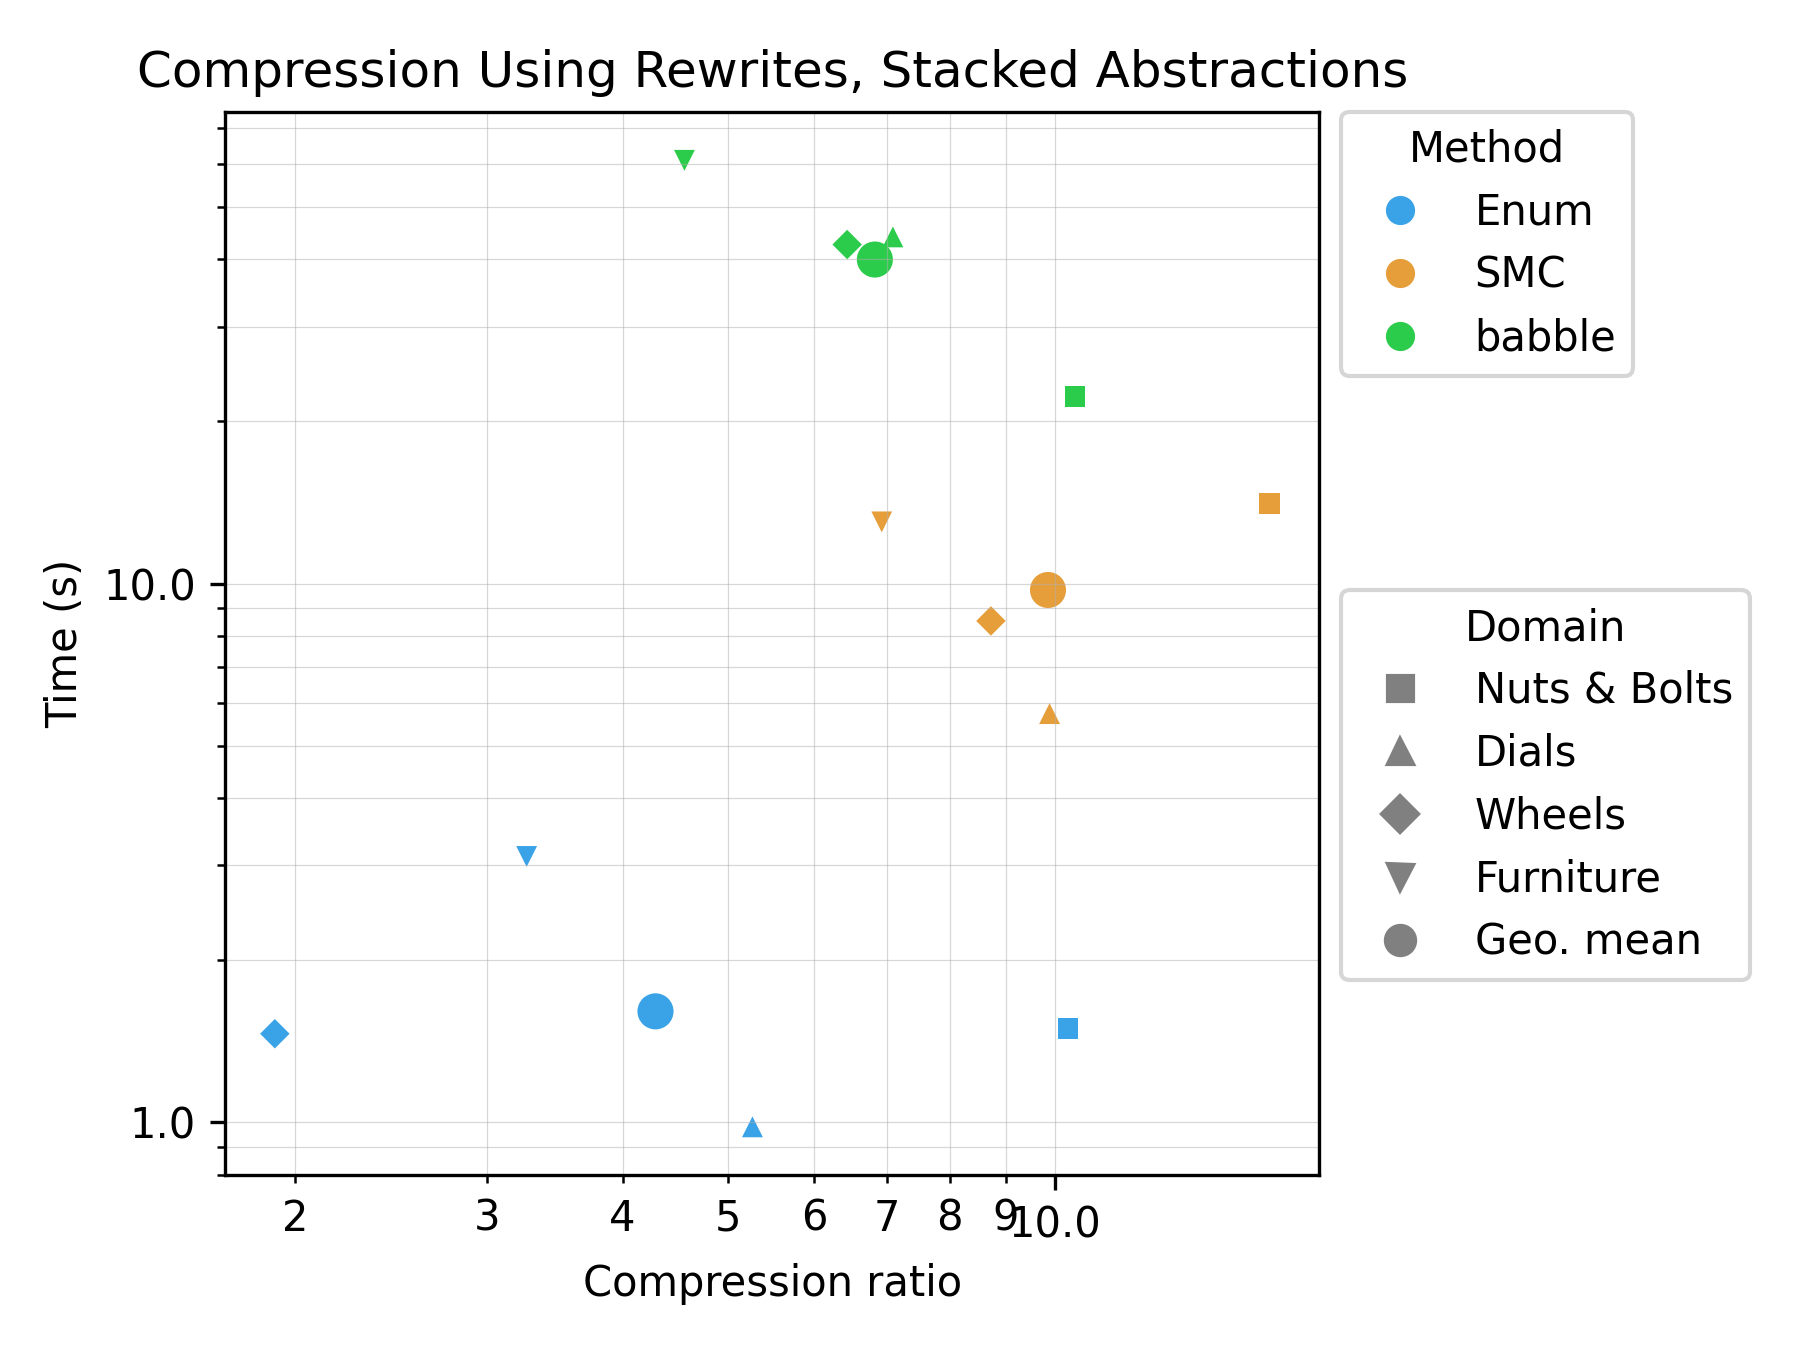
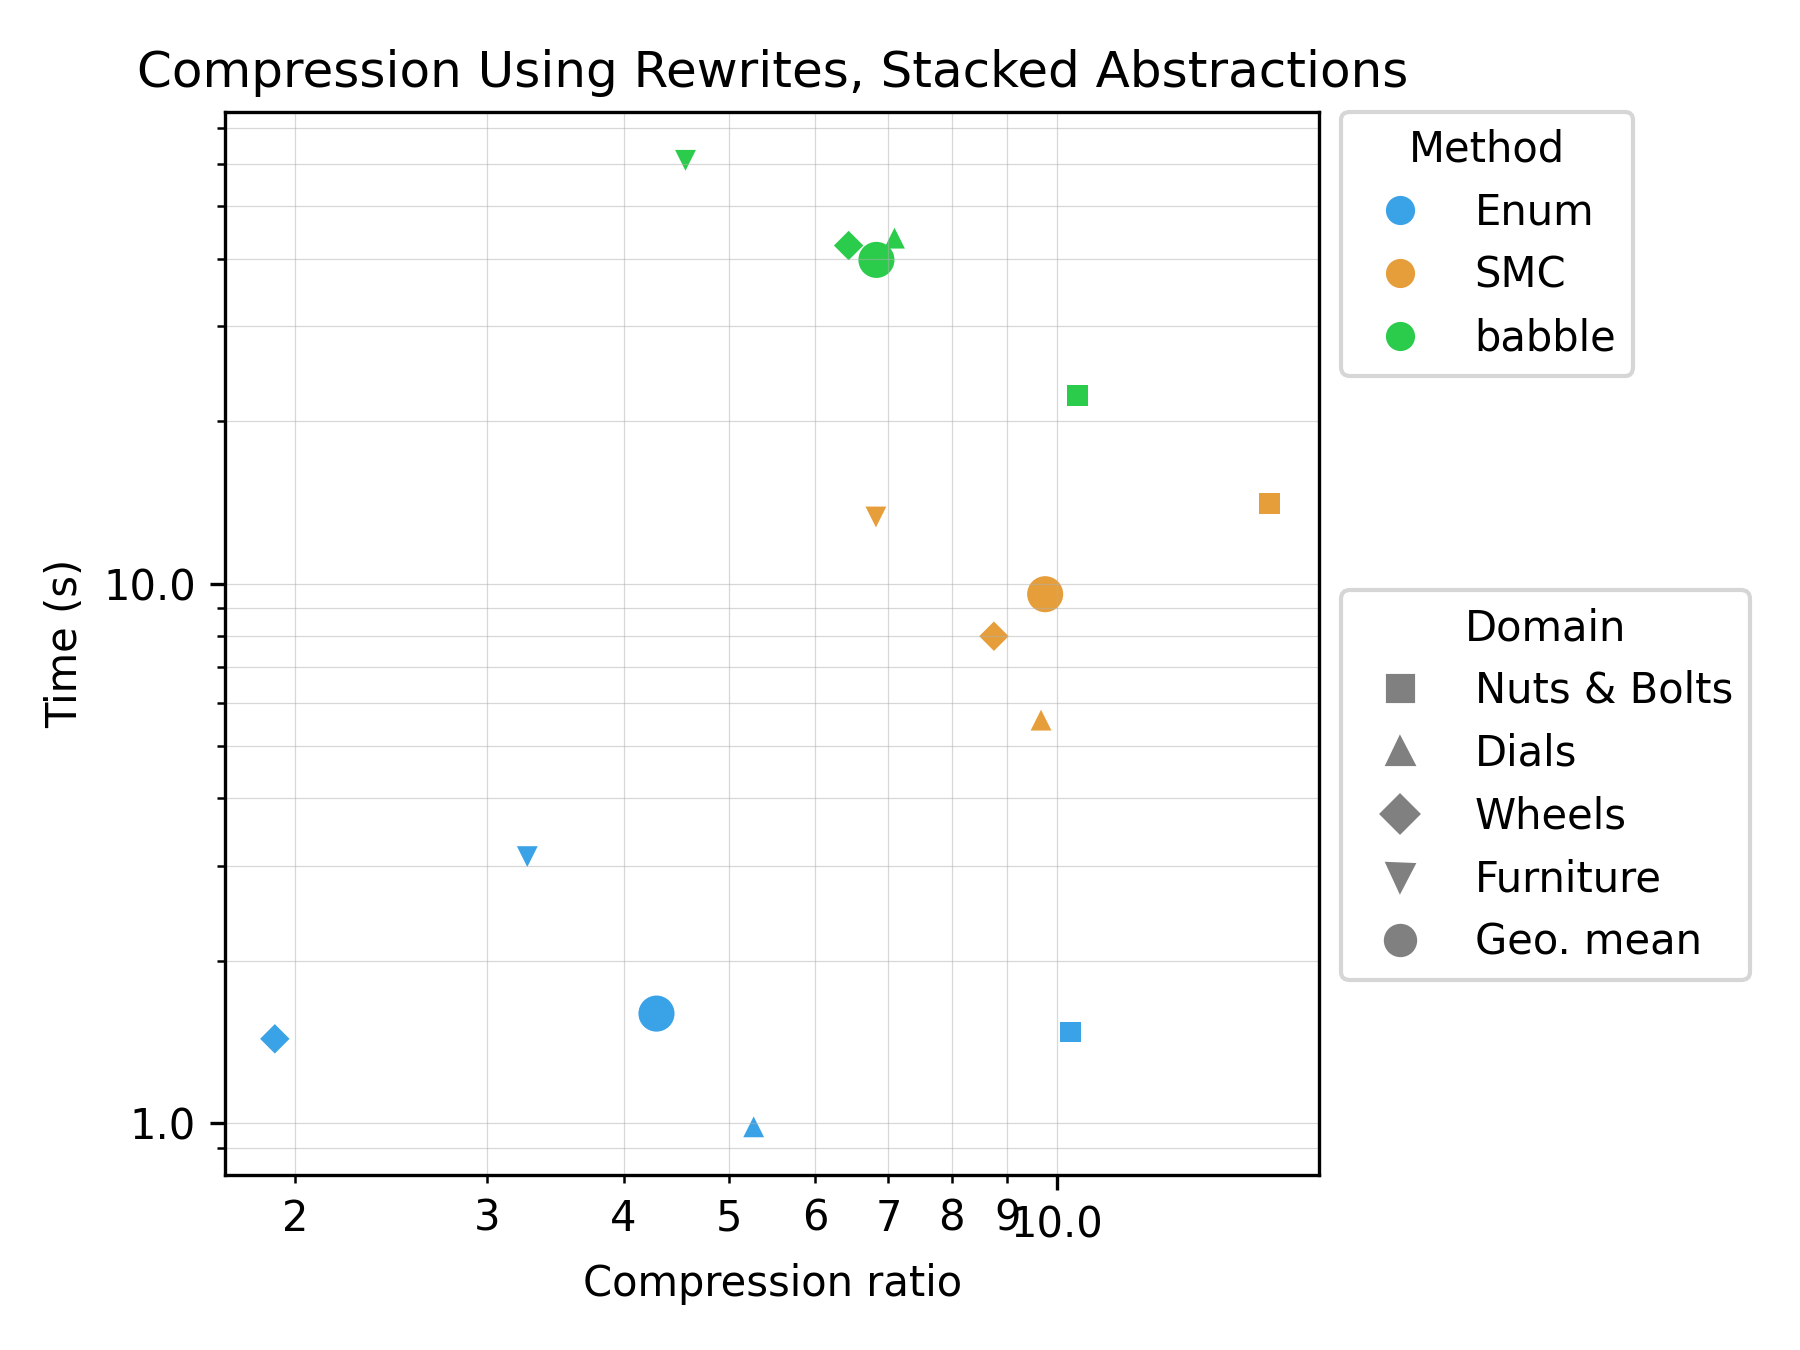
use the correct branches for stitch/babble (#86)

diff --git a/expts/__init__.py b/expts/__init__.py
@@ -29,6 +29,47 @@ def _cargo_build(project_dir: Path, bin_name: str) -> Path:
     return project_dir / "target" / "release" / bin_name
 
 
+def _git(repo_dir: Path, *args: str) -> str:
+    """Run ``git`` in ``repo_dir`` and return stripped stdout."""
+    return subprocess.run(
+        ["git", *args],
+        check=True, cwd=repo_dir, capture_output=True, text=True,
+    ).stdout.strip()
+
+
+def _check_clean_main(repo_dir: Path, expected_origin: str) -> None:
+    """Assert ``repo_dir`` is on main, clean, and synced with ``expected_origin``.
+
+    Raises ``RuntimeError`` if ``origin``'s URL doesn't match
+    ``expected_origin``, the working tree isn't on the ``main`` branch, has
+    uncommitted/untracked changes, or has diverged from ``origin/main``
+    after a fetch.
+    """
+    origin_url = _git(repo_dir, "remote", "get-url", "origin")
+    if origin_url != expected_origin:
+        raise RuntimeError(
+            f"{repo_dir}: expected origin '{expected_origin}', got '{origin_url}'"
+        )
+    branch = _git(repo_dir, "rev-parse", "--abbrev-ref", "HEAD")
+    if branch != "main":
+        raise RuntimeError(f"{repo_dir}: expected branch 'main', got '{branch}'")
+    dirty = _git(repo_dir, "status", "--porcelain")
+    if dirty:
+        raise RuntimeError(f"{repo_dir}: working tree has uncommitted changes:\n{dirty}")
+    _git(repo_dir, "fetch", "origin", "main")
+    local = _git(repo_dir, "rev-parse", "main")
+    remote = _git(repo_dir, "rev-parse", "origin/main")
+    if local != remote:
+        raise RuntimeError(
+            f"{repo_dir}: local main ({local[:8]}) is not in sync with origin/main ({remote[:8]})"
+        )
+
+
+# Verify the external compressors are on a clean, up-to-date main before we
+# build and run them so reported numbers are reproducible from a known commit.
+_check_clean_main(BABBLE_DIR, "git@github.com:kavigupta/babble.git")
+_check_clean_main(STITCH_DIR, "git@github.com:mlb2251/stitch.git")
+
 # Build all three binaries once at import time and expose their paths as
 # top-level constants. Cargo's incremental build makes the no-op case cheap.
 EGG_STITCH_BIN: Path = _cargo_build(EGG_STITCH_DIR, "egg-stitch")

diff --git a/figures/table3.tex b/figures/table3.tex
@@ -1,4 +1,4 @@
-% source: /home/kavi/mit/egg-stitch/viz/results/table3/2026-05-05_11-03-00/table3.json
+% source: /home/kavi/mit/egg-stitch/viz/results/table3/2026-05-05_18-55-23/table3.json
 % Compression Using Rewrites, Stacked Abstractions: generated from results JSON
 \begin{tabular}{l r r rrrr rrrr}
 \toprule
@@ -6,11 +6,11 @@
 \cmidrule(lr){2-3} \cmidrule(lr){4-7} \cmidrule(lr){8-11}
 Domain & Original & E-graph min & Enum & SMC & babble & Stitch & Enum & SMC & babble & Stitch \\
 \midrule
-Nuts \& Bolts & 19009 & 19296 & 10.28 & \textbf{15.75} & 10.43 & N/A & \textbf{1.495} & 14.082 & 22.263 & N/A \\
-Dials & 35713 & 20846 & 5.27 & \textbf{9.88} & 7.09 & N/A & \textbf{0.982} & 5.739 & 44.000 & N/A \\
-Wheels & 35427 & 30308 & 1.91 & \textbf{8.73} & 6.44 & N/A & \textbf{1.461} & 8.527 & 42.592 & N/A \\
-Furniture & 42936 & 37268 & 3.26 & \textbf{6.92} & 4.56 & N/A & \textbf{3.117} & 13.021 & 61.037 & N/A \\
+Nuts \& Bolts & 19009 & 19296 & 10.28 & \textbf{15.66} & 10.43 & N/A & \textbf{1.475} & 14.074 & 22.305 & N/A \\
+Dials & 35713 & 20846 & 5.27 & \textbf{9.66} & 7.09 & N/A & \textbf{0.984} & 5.584 & 43.678 & N/A \\
+Wheels & 35427 & 30308 & 1.91 & \textbf{8.75} & 6.44 & N/A & \textbf{1.433} & 7.988 & 42.325 & N/A \\
+Furniture & 42936 & 37268 & 3.26 & \textbf{6.82} & 4.56 & N/A & \textbf{3.118} & 13.287 & 60.885 & N/A \\
 \midrule
-Geo. mean &  &  & 4.29 & \textbf{9.85} & 6.82 & N/A & \textbf{1.608} & 9.733 & 39.947 & N/A \\
+Geo. mean &  &  & 4.29 & \textbf{9.75} & 6.82 & N/A & \textbf{1.596} & 9.557 & 39.805 & N/A \\
 \bottomrule
 \end{tabular}

diff --git a/figures/table1.tex b/figures/table1.tex
@@ -1,4 +1,4 @@
-% source: /home/kavi/mit/egg-stitch/viz/results/table1/2026-05-05_10-46-39/table1.json
+% source: /home/kavi/mit/egg-stitch/viz/results/table1/2026-05-05_18-39-09/table1.json
 % Compression Using Rewrites: generated from results JSON
 \begin{tabular}{l r r rrrr rrrr}
 \toprule
@@ -6,11 +6,11 @@
 \cmidrule(lr){2-3} \cmidrule(lr){4-7} \cmidrule(lr){8-11}
 Domain & Original & E-graph min & Enum & SMC & babble & Stitch & Enum & SMC & babble & Stitch \\
 \midrule
-Nuts \& Bolts & 19009 & 19016 & 1.24 & 1.73 & \textbf{1.75} & N/A & \textbf{0.373} & 1.281 & 11.438 & N/A \\
-Dials & 35713 & 20618 & 2.07 & 2.08 & \textbf{2.17} & N/A & \textbf{0.078} & 0.754 & 28.950 & N/A \\
-Wheels & 35427 & 30264 & \textbf{1.45} & \textbf{1.45} & 1.36 & N/A & \textbf{0.281} & 0.341 & 8.856 & N/A \\
-Furniture & 42936 & 37079 & 1.31 & \textbf{1.70} & 1.39 & N/A & \textbf{0.279} & 0.857 & 14.568 & N/A \\
+Nuts \& Bolts & 19009 & 19016 & 1.24 & 1.70 & \textbf{1.75} & N/A & \textbf{0.373} & 1.256 & 11.419 & N/A \\
+Dials & 35713 & 20618 & 2.07 & 2.08 & \textbf{2.17} & N/A & \textbf{0.075} & 0.895 & 28.810 & N/A \\
+Wheels & 35427 & 30264 & \textbf{1.45} & \textbf{1.45} & 1.36 & N/A & 0.281 & \textbf{0.239} & 8.709 & N/A \\
+Furniture & 42936 & 37079 & 1.31 & \textbf{1.70} & 1.39 & N/A & \textbf{0.277} & 0.858 & 14.408 & N/A \\
 \midrule
-Geo. mean &  &  & 1.49 & \textbf{1.73} & 1.63 & N/A & \textbf{0.218} & 0.729 & 14.377 & N/A \\
+Geo. mean &  &  & 1.49 & \textbf{1.72} & 1.63 & N/A & \textbf{0.216} & 0.693 & 14.254 & N/A \\
 \bottomrule
 \end{tabular}

diff --git a/figures/table4.tex b/figures/table4.tex
@@ -1,4 +1,4 @@
-% source: /home/kavi/mit/egg-stitch/viz/results/table4/2026-05-05_11-39-31/table4.json
+% source: /home/kavi/mit/egg-stitch/viz/results/table4/2026-05-05_19-31-40/table4.json
 % Compression Without Rewrites, Stacked Abstractions: generated from results JSON
 \begin{tabular}{l r  rrrr rrrr}
 \toprule
@@ -6,11 +6,11 @@
 \cmidrule(lr){2-2} \cmidrule(lr){3-6} \cmidrule(lr){7-10}
 Domain & Original & Enum & SMC & babble & Stitch & Enum & SMC & babble & Stitch \\
 \midrule
-Nuts \& Bolts & 19009 & 1.61 & 15.01 & 9.11 & \textbf{16.99} & 1.513 & 2.747 & 10.452 & \textbf{0.092} \\
-Dials & 35713 & 4.49 & 6.43 & 5.25 & \textbf{8.87} & 1.251 & 7.524 & 42.052 & \textbf{0.423} \\
-Wheels & 35427 & 2.35 & \textbf{6.91} & 5.47 & 6.61 & 3.081 & 11.751 & 44.632 & \textbf{0.379} \\
-Furniture & 42936 & 3.70 & 6.54 & 4.26 & \textbf{7.00} & 3.362 & 13.706 & 70.808 & \textbf{0.547} \\
+Nuts \& Bolts & 19009 & 1.61 & 15.38 & 9.11 & \textbf{16.99} & 1.508 & 2.601 & 10.307 & \textbf{0.096} \\
+Dials & 35713 & 4.49 & 6.29 & 5.25 & \textbf{8.87} & 1.249 & 7.657 & 42.003 & \textbf{0.448} \\
+Wheels & 35427 & 2.35 & \textbf{6.92} & 5.47 & 6.61 & 3.033 & 11.352 & 44.219 & \textbf{0.413} \\
+Furniture & 42936 & 3.70 & 6.44 & 4.26 & \textbf{7.00} & 3.355 & 13.438 & 70.866 & \textbf{0.581} \\
 \midrule
-Geo. mean &  & 2.81 & 8.12 & 5.78 & \textbf{9.14} & 2.104 & 7.596 & 34.331 & \textbf{0.300} \\
+Geo. mean &  & 2.81 & 8.10 & 5.78 & \textbf{9.14} & 2.092 & 7.424 & 34.129 & \textbf{0.319} \\
 \bottomrule
 \end{tabular}

diff --git a/figures/table2.tex b/figures/table2.tex
@@ -1,4 +1,4 @@
-% source: /home/kavi/mit/egg-stitch/viz/results/table2/2026-05-05_10-58-02/table2.json
+% source: /home/kavi/mit/egg-stitch/viz/results/table2/2026-05-05_18-50-26/table2.json
 % Compression Without Rewrites: generated from results JSON
 \begin{tabular}{l r  rrrr rrrr}
 \toprule
@@ -6,11 +6,11 @@
 \cmidrule(lr){2-2} \cmidrule(lr){3-6} \cmidrule(lr){7-10}
 Domain & Original & Enum & SMC & babble & Stitch & Enum & SMC & babble & Stitch \\
 \midrule
-Nuts \& Bolts & 19009 & 1.29 & 1.63 & 1.67 & \textbf{1.78} & 0.069 & 0.293 & 2.049 & \textbf{0.044} \\
-Dials & 35713 & 1.22 & 1.23 & 1.26 & \textbf{1.27} & 0.111 & 0.520 & 7.795 & \textbf{0.108} \\
-Wheels & 35427 & 1.22 & 1.24 & 1.14 & \textbf{1.24} & 0.289 & 0.234 & 4.631 & \textbf{0.109} \\
-Furniture & 42936 & 1.04 & 1.38 & 1.22 & \textbf{1.38} & 0.338 & 1.103 & 11.395 & \textbf{0.148} \\
+Nuts \& Bolts & 19009 & 1.29 & 1.63 & 1.67 & \textbf{1.78} & 0.068 & 0.284 & 2.022 & \textbf{0.044} \\
+Dials & 35713 & 1.22 & 1.23 & 1.26 & \textbf{1.27} & 0.110 & 0.548 & 7.628 & \textbf{0.107} \\
+Wheels & 35427 & 1.22 & 1.24 & 1.14 & \textbf{1.24} & 0.292 & 0.230 & 4.614 & \textbf{0.109} \\
+Furniture & 42936 & 1.04 & 1.38 & 1.22 & \textbf{1.38} & 0.342 & 1.092 & 11.405 & \textbf{0.149} \\
 \midrule
-Geo. mean &  & 1.19 & 1.36 & 1.31 & \textbf{1.40} & 0.166 & 0.445 & 5.388 & \textbf{0.094} \\
+Geo. mean &  & 1.19 & 1.36 & 1.31 & \textbf{1.40} & 0.165 & 0.445 & 5.338 & \textbf{0.093} \\
 \bottomrule
 \end{tabular}
